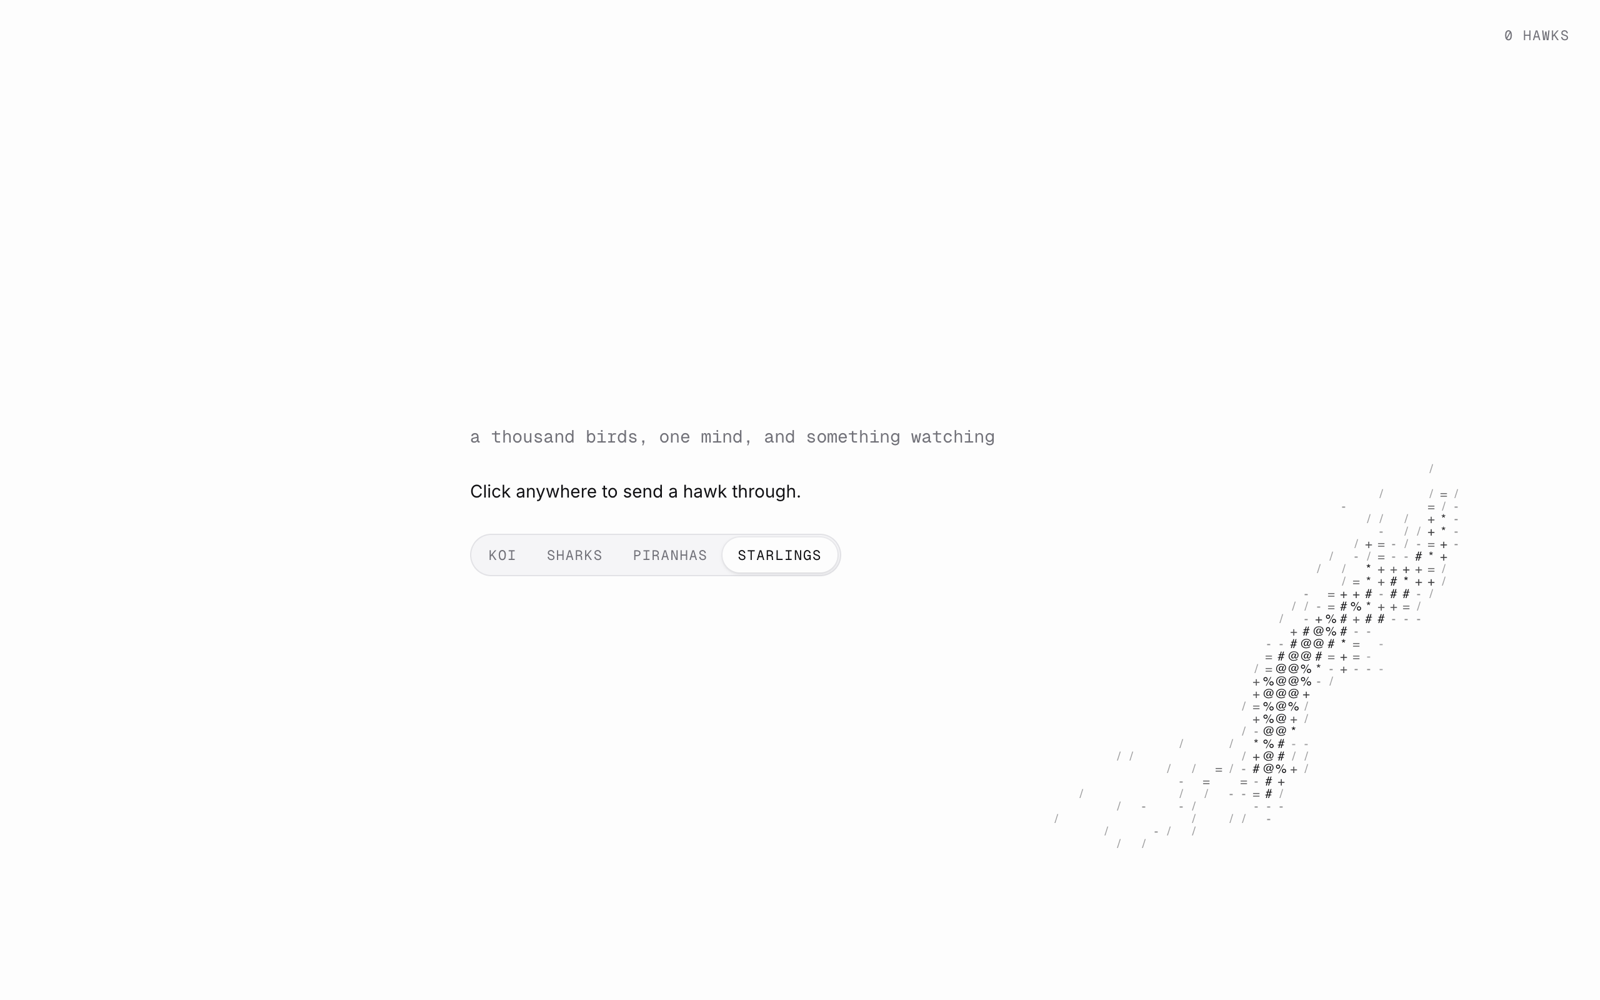
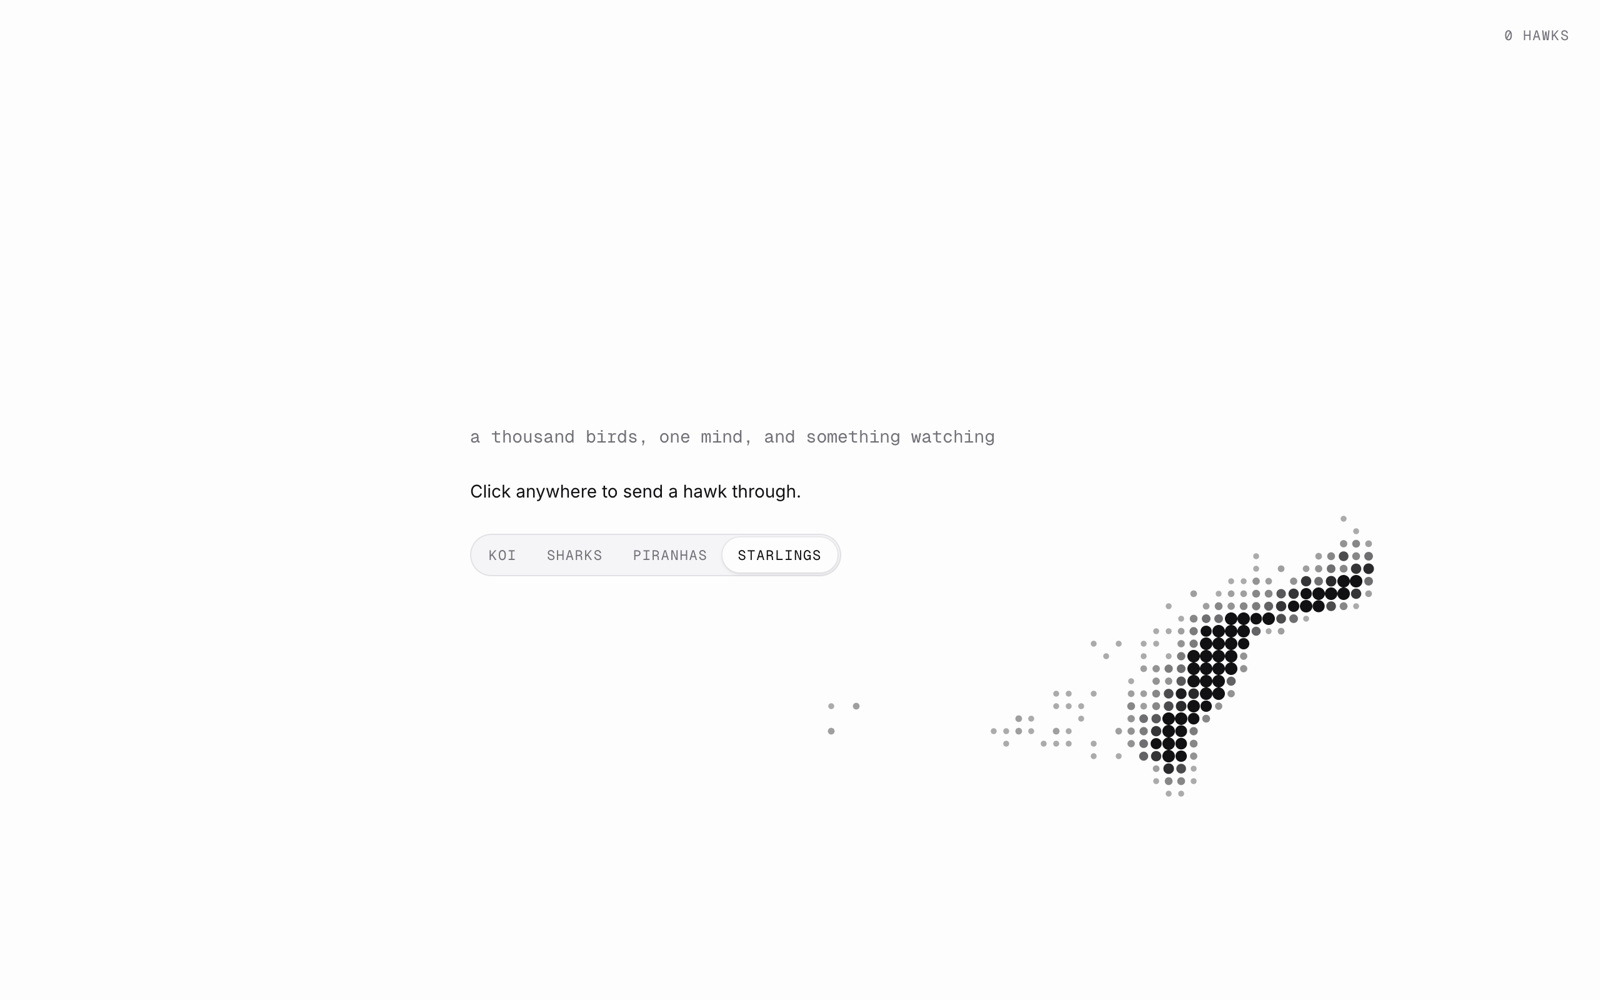
Murmuration: the flock as a halftone cloud, a dot per cell growing with the birds in it, and a tighter flock with soft folds

Changed region(s): [[0.6562, 0.527, 0.9062, 0.806], [0.625, 0.713, 0.6562, 0.744]]

diff --git a/registry/blocks/murmuration.tsx b/registry/blocks/murmuration.tsx
@@ -5,9 +5,9 @@ import { hash, stroke, useAsciiCanvas, type AsciiGrid } from "@/hooks/use-ascii-
 
 // Murmuration: a starling flock as ASCII, behind the content. Each bird
 // follows its seven nearest neighbours (as real starlings do), drifts about
-// a slowly wandering roost, and the cloud is drawn by density: one bird is a
-// stroke along its heading, a crowd is a denser glyph, so the flock reads
-// like smoke folding over itself. Click and a hawk dives in from there:
+// a slowly wandering roost, and the cloud is drawn as halftone: a dot per
+// cell that grows with the birds in it, so the flock reads as one cloud
+// folding over itself. Click and a hawk dives in from there:
 // birds near it bolt, the alarm runs through the flock in a wave, and the
 // cloud splits and pours back together. Now and then a hawk comes anyway.
 //
@@ -34,10 +34,9 @@ type Sky = {
   onHawk?: (passes: number) => void
 }
 
-const RAMP = ".:-=+*#%@"
 const NEIGHBOURS = 7
 const SEE = 30
-const PERSONAL = 16
+const PERSONAL = 14
 const BIN = 30
 
 function hawkFrom(sky: Sky, x: number, y: number): Hawk {
@@ -117,9 +116,9 @@ function step(sky: Sky, dt: number, time: number) {
 
     let fx = 0, fy = 0, fz = 0
     if (seen) {
-      fx += (ax / seen - vx[i]) * 1.5 + (cx / seen) * 0.35 + sx * 520
-      fy += (ay / seen - vy[i]) * 1.5 + (cy / seen) * 0.35 + sy * 520
-      fz += (az / seen - vz[i]) * 1.5 + (cz / seen) * 0.35 + sz * 520
+      fx += (ax / seen - vx[i]) * 1.5 + (cx / seen) * 0.5 + sx * 480
+      fy += (ay / seen - vy[i]) * 1.5 + (cy / seen) * 0.5 + sy * 480
+      fz += (az / seen - vz[i]) * 1.5 + (cz / seen) * 0.5 + sz * 480
     }
     // The roost holds the cloud loosely: free inside, pulled back from out past it.
     const reach = Math.min(width, height) * 0.38
@@ -174,7 +173,6 @@ function step(sky: Sky, dt: number, time: number) {
 function draw(g: AsciiGrid, sky: Sky, accent: string) {
   const { cell, cols, rows } = g
   const count = new Uint16Array(cols * rows)
-  const dir = new Float32Array(cols * rows)
   const scared = new Float32Array(cols * rows)
   for (let i = 0; i < sky.n; i++) {
     const c = Math.floor(sky.x[i] / cell)
@@ -182,7 +180,6 @@ function draw(g: AsciiGrid, sky: Sky, accent: string) {
     if (c < 0 || r < 0 || c >= cols || r >= rows) continue
     const k = r * cols + c
     count[k]++
-    dir[k] = Math.atan2(sky.vy[i], sky.vx[i])
     scared[k] = Math.max(scared[k], sky.alarm[i])
   }
   for (let k = 0; k < count.length; k++) {
@@ -190,9 +187,14 @@ function draw(g: AsciiGrid, sky: Sky, accent: string) {
     if (!m) continue
     const c = k % cols
     const r = Math.floor(k / cols)
-    // One bird is a stroke along its heading; a crowd is a denser glyph.
-    const char = m === 1 ? stroke(dir[k]) : RAMP[Math.min(RAMP.length - 1, Math.floor(Math.log2(m) * 2))]
-    g.glyph(c, r, char, g.ink, Math.min(1, 0.3 + m * 0.1 + scared[k] * 0.2))
+    // Halftone: a dot per cell that grows with the birds in it, so the flock
+    // reads as one dark cloud with soft folds, not as a rain of strokes.
+    const size = cell * (0.16 + 0.34 * Math.min(1, Math.sqrt(m / 20)))
+    g.ctx.globalAlpha = Math.min(1, 0.3 + m * 0.05 + scared[k] * 0.15)
+    g.ctx.fillStyle = g.ink
+    g.ctx.beginPath()
+    g.ctx.arc(c * cell + cell / 2, r * cell + cell / 2, size, 0, Math.PI * 2)
+    g.ctx.fill()
   }
 
   for (const h of sky.hawks) {
@@ -219,7 +221,7 @@ export function Murmuration({
   children,
   className,
 }: {
-  /** How many starlings; defaults to as many as the sky holds, up to 1,600. */
+  /** How many starlings; defaults to as many as the sky holds, up to 2,600. */
   count?: number
   /** The hawk's colour; the flock stays in the ink. */
   accent?: string
@@ -237,7 +239,7 @@ export function Murmuration({
   const { canvas, scene } = useAsciiCanvas<Sky>({
     cell,
     init: ({ width, height }, prev) => {
-      const n = count ?? Math.max(400, Math.min(1600, Math.round((width * height) / 900)))
+      const n = count ?? Math.max(700, Math.min(2600, Math.round((width * height) / 520)))
       if (prev && prev.n === n) return { ...prev, width, height }
       const sky: Sky = {
         width,

diff --git a/skills/uia/references/examples.md b/skills/uia/references/examples.md
@@ -25,7 +25,7 @@ your visual reference. Screenshots are also in the uia repo under
 | Ground station | `example-ground-station` | drag-to-turn wireframe globe with orbits (front solid, back dashed), the night side shaded for volume, satellites as a small glyph along their heading, a recenter button only once turned, "in view" stat, sky plot of the pass (dashed when upcoming, live in `success`), countdown or live Mbps, onboard `MeterBar`, satellites as `WidgetListRow`s with a 3 h pass timeline + `StatusBadge`, station `Select` with mono coordinates, UTC clock ×60 in the footer and a Book CTA that books the next pass (never the one under way); switching station says "Tracking from …" where the clock is, for a moment (no toast); out-of-view rows use a hollow dot; phones drop the timelines | live tracking of things moving over a place (satellites, fleets, deliveries), any widget with a spatial view + a list of upcoming windows |
 | Purchase orders + Filter | `example-purchase-orders` | **PurchaseOrders:** status `Segmented` with mono counts (a `Select` on phones), removable date chip, supplier `Select`, search that opens from an icon; rows as a schedule — placed → delivery, `brand` fill as far as billed, dashed outline while pending, a ring for delivery, one dashed "Today" line and week lines drawn once behind the rows, legend under it; checkboxes turn the footer into bulk actions. **BillsFilter:** due-date chips that read "Sep 1" over the native picker, an amount range over its histogram (bars lit inside the range, sqrt scale), "Overdue only" switch, document types with counts, "Show N bills" counting live, Reset once changed | any list of records over time with bulk actions; any filter panel (show the distribution you are cutting, count the result on the button) |
 | Koi pond | `example-koi-pond` | an ASCII backdrop: koi as tiles with a glyph cut into each (lit along the back, darker at the flanks), patches in one colour that deepen to rust, a dotted shadow on the pond floor, a dark tail fan, eyes punched out, whiskers and fins as strokes, swimming on a cell grid under a typed line; click drops food, rings spread in ASCII and the nearest koi turn for it; the corner counts what was eaten | landing and empty pages, a hero behind a short line; never inside a widget |
-| Ocean | `example-ocean` | the ASCII backdrops behind one switch (Koi, Sharks, Piranhas, Starlings); starlings: a flock flying in 3D drawn flat by density (a lone bird a stroke along its heading, crowds denser glyphs), each tracking seven neighbours round a wandering roost, and a hawk in one colour that a click sends through, the alarm running bird to bird and the cloud splitting; predators and prey: bait fish as single strokes that school and scatter, predators shaded with a glyph ramp (sparse where the light falls, dense in shadow); sharks are shaded tiles (a few in the shark's own muted hues, shifting slowly) with a tail wave, at three depths (deeper is smaller and dimmer, passing under), a fading wake, swept-back pectorals that bank into turns, a dorsal line, gill slits and a forked tail, every second one a hammerhead, turning wide and lunging at stragglers, aiming where the fish will be; a piranha pack with fins in one colour; click drops a school for the sharks, or blood for the piranhas, which go into a frenzy and tear through it; the corner counts what was eaten | the same places as the koi pond: landing, empty and error pages, behind a short line |
+| Ocean | `example-ocean` | the ASCII backdrops behind one switch (Koi, Sharks, Piranhas, Starlings); starlings: a flock flying in 3D drawn flat as halftone (a dot per cell that grows with the birds in it), each tracking seven neighbours round a wandering roost, and a hawk in one colour that a click sends through, the alarm running bird to bird and the cloud splitting; predators and prey: bait fish as single strokes that school and scatter, predators shaded with a glyph ramp (sparse where the light falls, dense in shadow); sharks are shaded tiles (a few in the shark's own muted hues, shifting slowly) with a tail wave, at three depths (deeper is smaller and dimmer, passing under), a fading wake, swept-back pectorals that bank into turns, a dorsal line, gill slits and a forked tail, every second one a hammerhead, turning wide and lunging at stragglers, aiming where the fish will be; a piranha pack with fins in one colour; click drops a school for the sharks, or blood for the piranhas, which go into a frenzy and tear through it; the corner counts what was eaten | the same places as the koi pond: landing, empty and error pages, behind a short line |
 | Merge conflicts | `example-merge-conflicts` | a pull request behind its base: branches as a commit graph drawn row by row (one lane per branch, curves only where a branch forks or merges, so lines stay aligned as rows arrive), the base commit that touched the same lines tagged, conflicting files as a list linked to the graph (hover dims the other commits), each file opening to both sides with a bar in its branch colour, then the resolved lines coloured by origin; one verb at a time in the footer (Merge main and resolve → Merge pull request); the merge commit arrives dashed and shimmering, files resolve one by one. Also answered in the Assistant (`?scenario=merge`) at `size="sm"` | code review, CI, any agent that fixes something in the person's repo and needs a go-ahead; any history with branches |
 | Model router | `example-model-router` | number + `Segmented` policy, flow graph linked to a list, inline controls in a sentence (Fallback if … retry on …), deploy with states | configuration with a preview, routing, A/B, policies |
 | Agent runtime | `example-agent-runtime` | small number of things with state, illustration that highlights the focused thing, list rows with badge + countdown, select → act | resources with lifecycle (jobs, agents, sandboxes, workers) |
